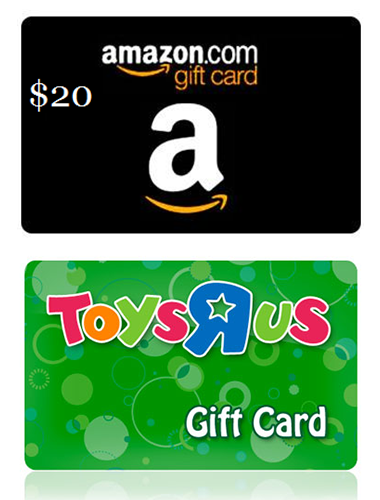
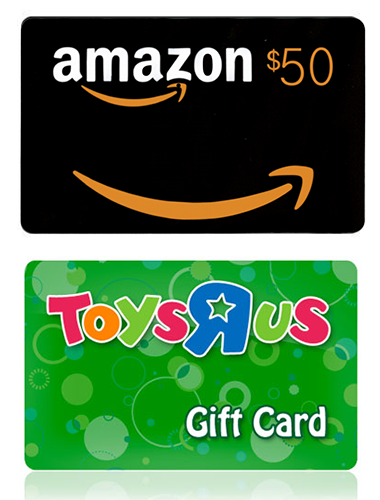
Latest revisions...

diff --git a/app/models/user.rb b/app/models/user.rb
@@ -19,28 +19,28 @@ class User < ActiveRecord::Base
         'html' => 'Handmade<br>Joey gifts',
       'class' => 'two',
       'image' =>  ActionController::Base.helpers.asset_path(
-        'assets/refer/grandma.jpg')
+          'assets/refer/joey_logo.jpg')
     },
     {
       'count' => 10,
         'html' => 'Oops! The Parenting Handbook<br>by Erik Robertson',
       'class' => 'three',
       'image' => ActionController::Base.helpers.asset_path(
-        'assets/refer/cards.png')
+        'assets/refer/oops.jpg')
     },
     {
       'count' => 25,
         'html' => 'Bundle<br>Includes The fat loss puzzle eBook + personalized 30 min consulting on optimal nutrition for nursing moms by Clarke Russell',
       'class' => 'four',
       'image' => ActionController::Base.helpers.asset_path(
-        'assets/refer/books.png')
+        'assets/refer/fat_loss.png')
     },
     {
       'count' => 50,
       'html' => ' $50 Amazon or ToysrUs<br> gift card',
       'class' => 'five',
       'image' => ActionController::Base.helpers.asset_path(
-        'assets/refer/shutterfly.jpg')
+        'assets/refer/cards.png')
     }
   ]
 
